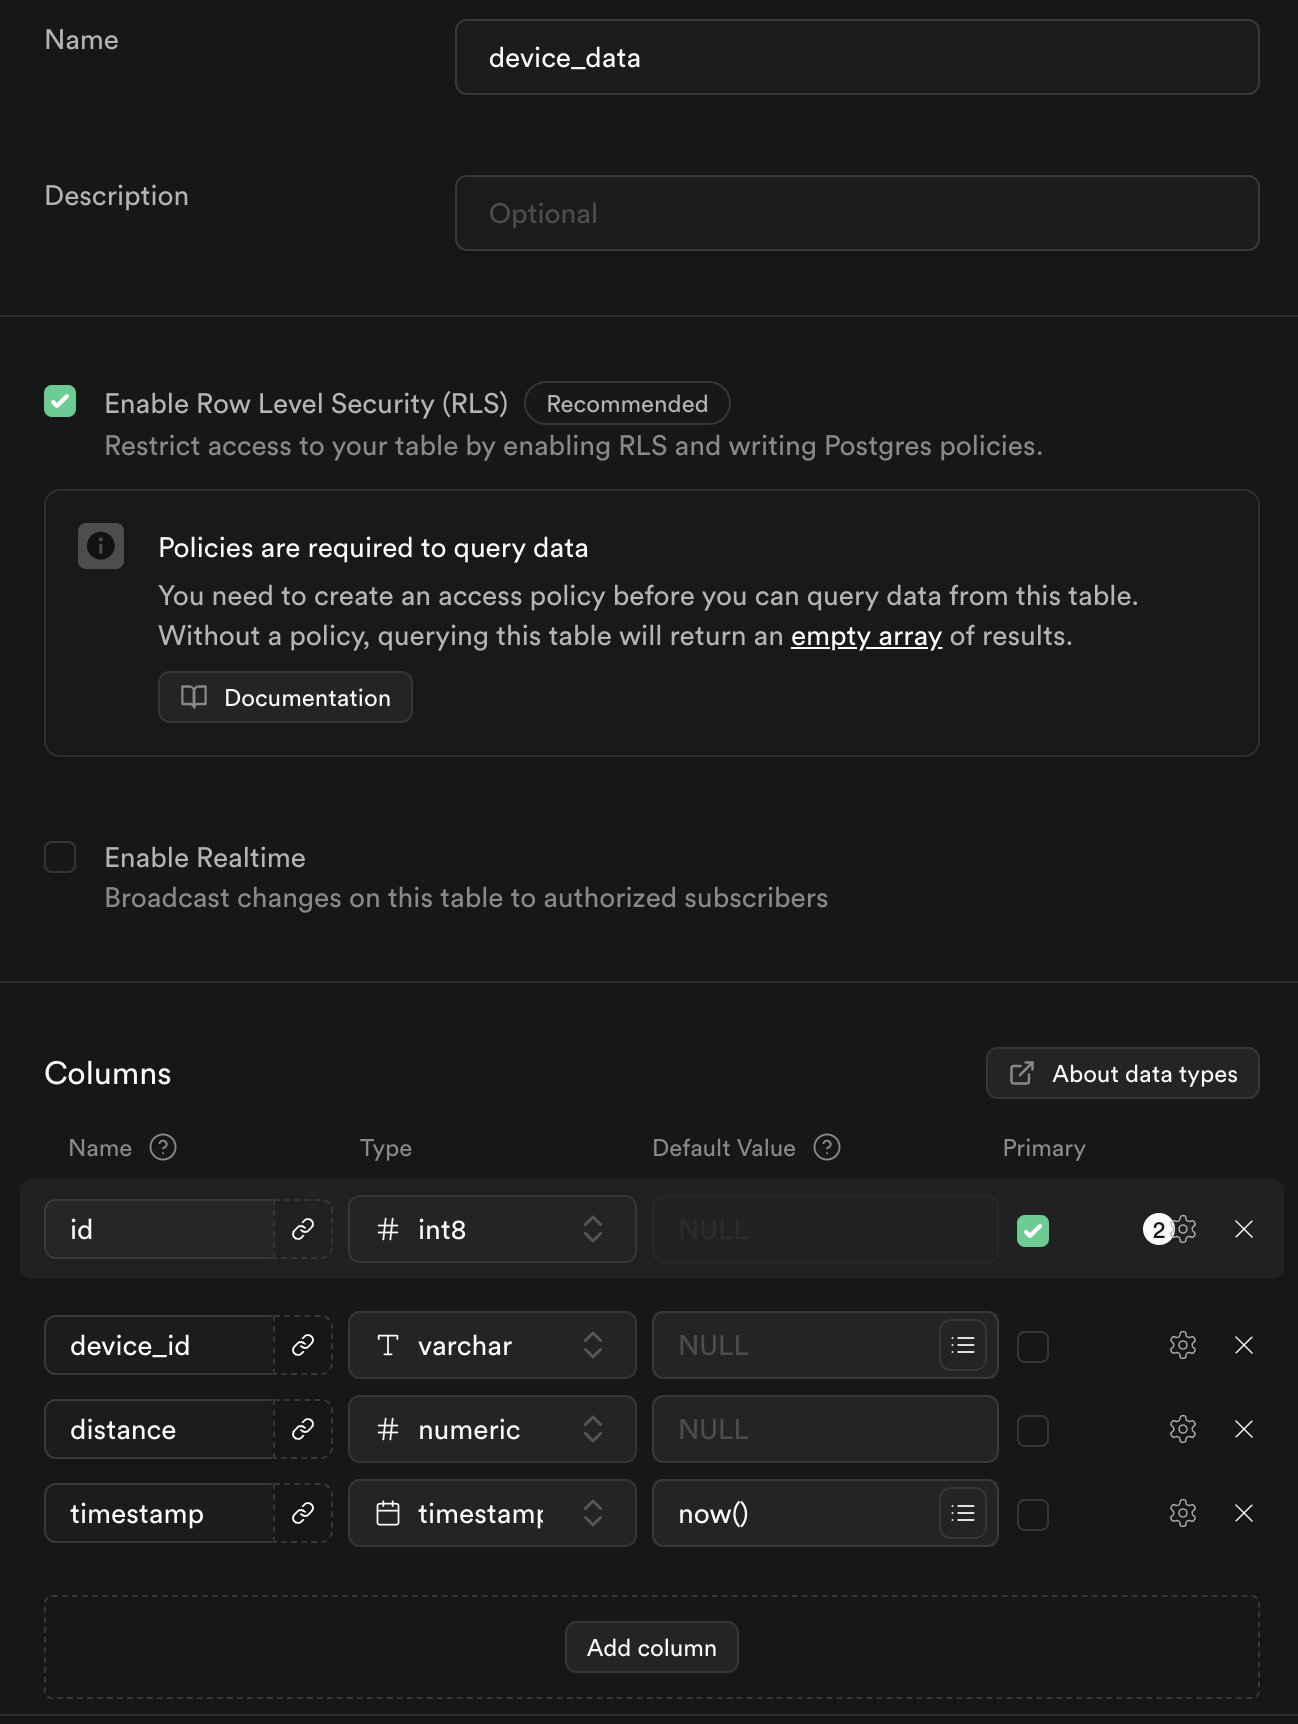
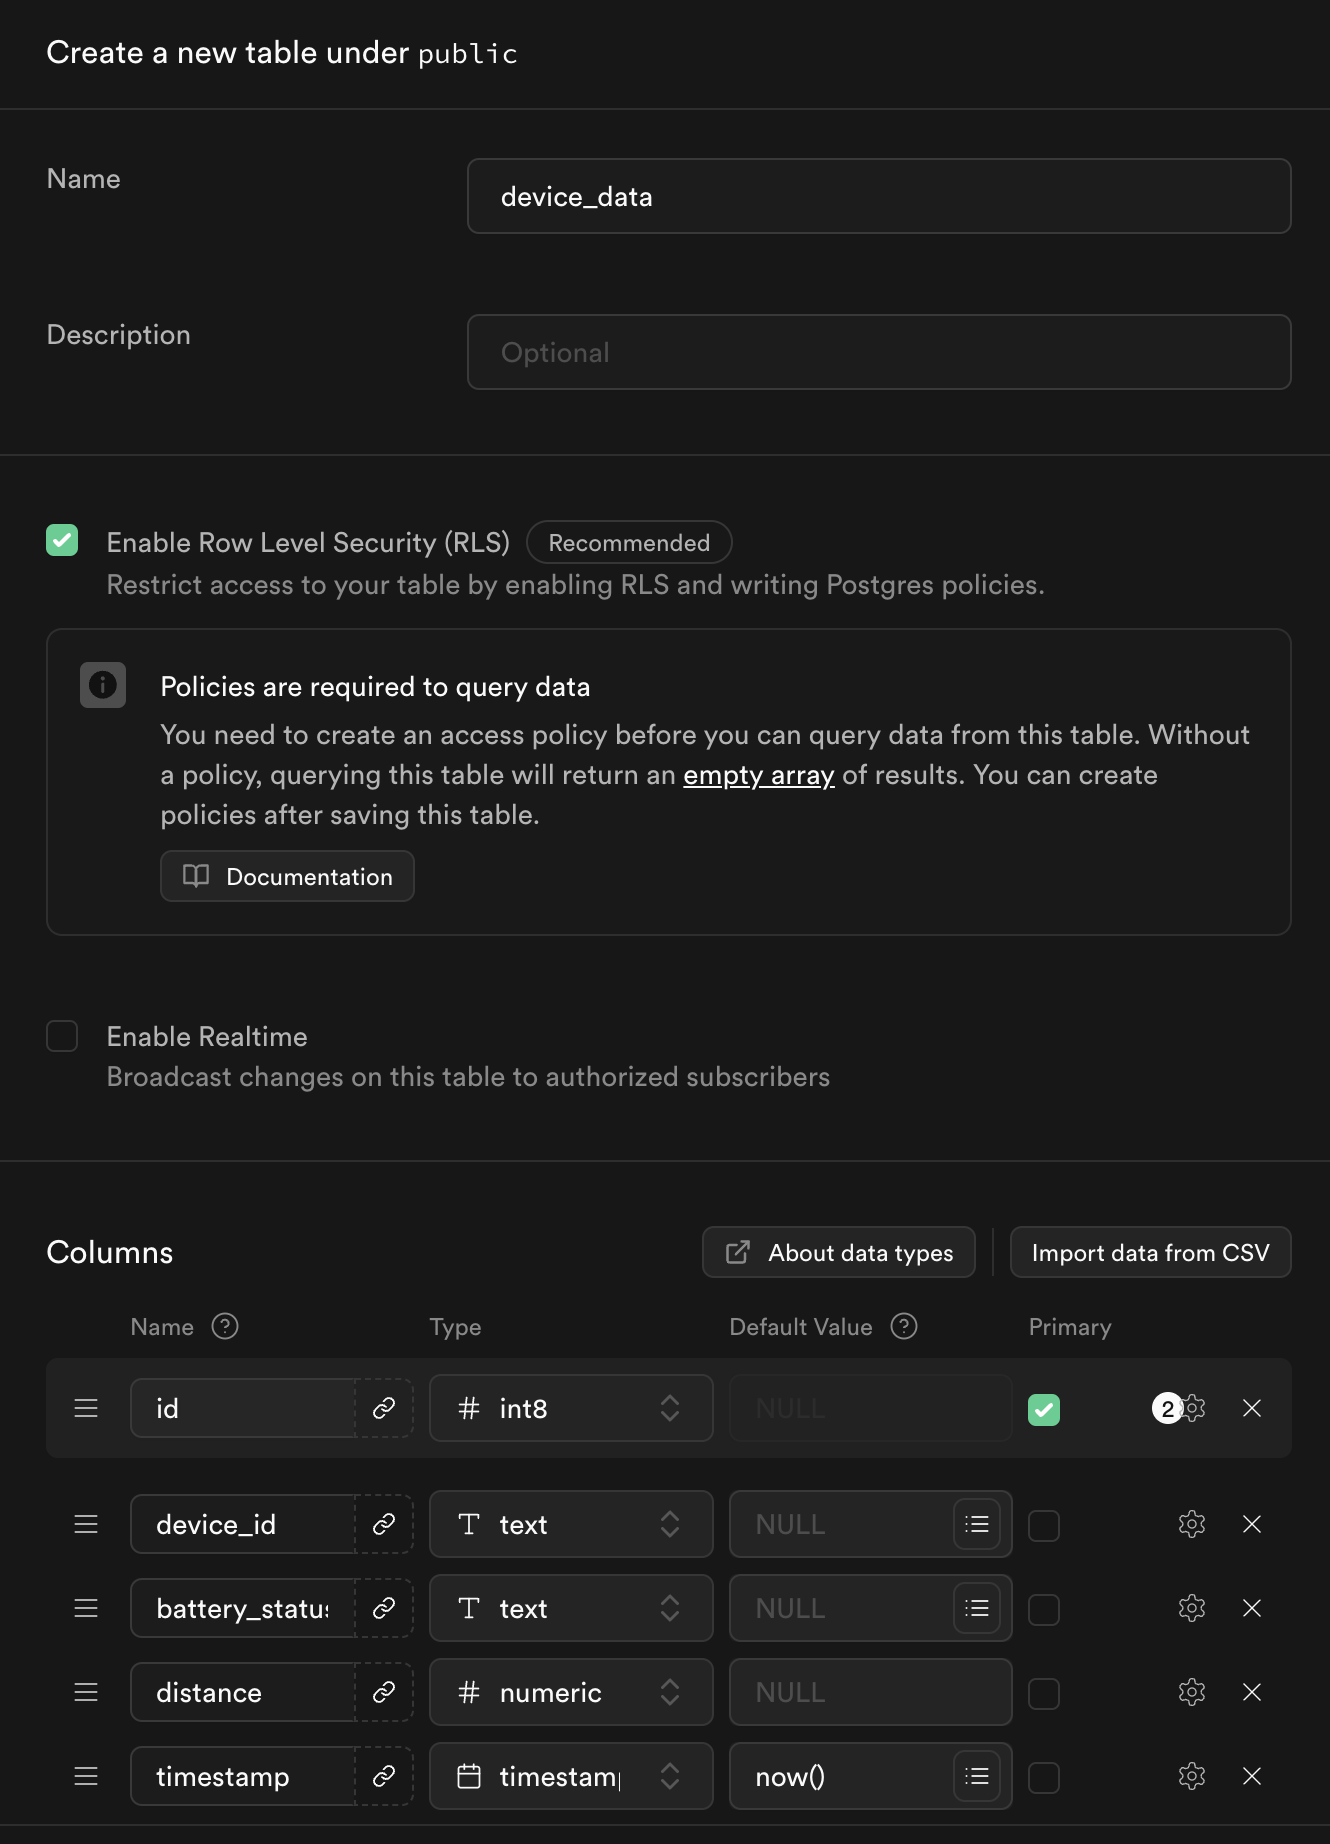
feat: implement battery status in supabase

diff --git a/apps/api/supabase/functions/ttn-webhook/index.ts b/apps/api/supabase/functions/ttn-webhook/index.ts
@@ -4,13 +4,12 @@ serve(async (req) => {
   // Receive data from TTN
   const body = await req.json()
 
-  console.log("Parsed body:", JSON.stringify(body, null, 2))
-
   const deviceId = body.end_device_ids?.device_id
   const distance = body.uplink_message?.decoded_payload?.distance
+  const batteryStatus = body.uplink_message?.decoded_payload?.batteryStatus
   const timestamp = body.received_at
 
-  if (!deviceId || distance === undefined || !timestamp) {
+  if (!deviceId || distance === undefined || !batteryStatus || !timestamp) {
     console.error("Missing data fields")
     return new Response("Bad Request", { status: 400 })
   }
@@ -30,6 +29,7 @@ serve(async (req) => {
     body: JSON.stringify({
       device_id: deviceId,
       distance: distance,
+      battery_status: batteryStatus,
       timestamp: timestamp,
     }),
   })
@@ -44,9 +44,8 @@ serve(async (req) => {
 
   // Clean up logic to prevent the table from exceeding the supabase disk space
   const today = new Date().toISOString().split("T")[0]
-  console.log("Today:", today)
 
-  const cleanupRes = await fetch(
+    const cleanupRes = await fetch(
     `${supabaseUrl}/rest/v1/rpc/delete_old_data`,
     {
       method: "POST",
@@ -55,10 +54,13 @@ serve(async (req) => {
     }
   )
 
-  console.log(cleanupRes)
+  if (!cleanupRes.ok) {
+    const errorBody = await cleanupRes.text()
+    console.error("Cleanup failed:", errorBody)
+    return new Response("Error cleaning up", { status: 500 })
+  }
 
-  const cleanupResult = await cleanupRes.json()
-  console.log("Cleanup result:", cleanupResult)
+  console.log("Cleanup completed", cleanupRes)
 
   return new Response("OK", { status: 200 })
 })
